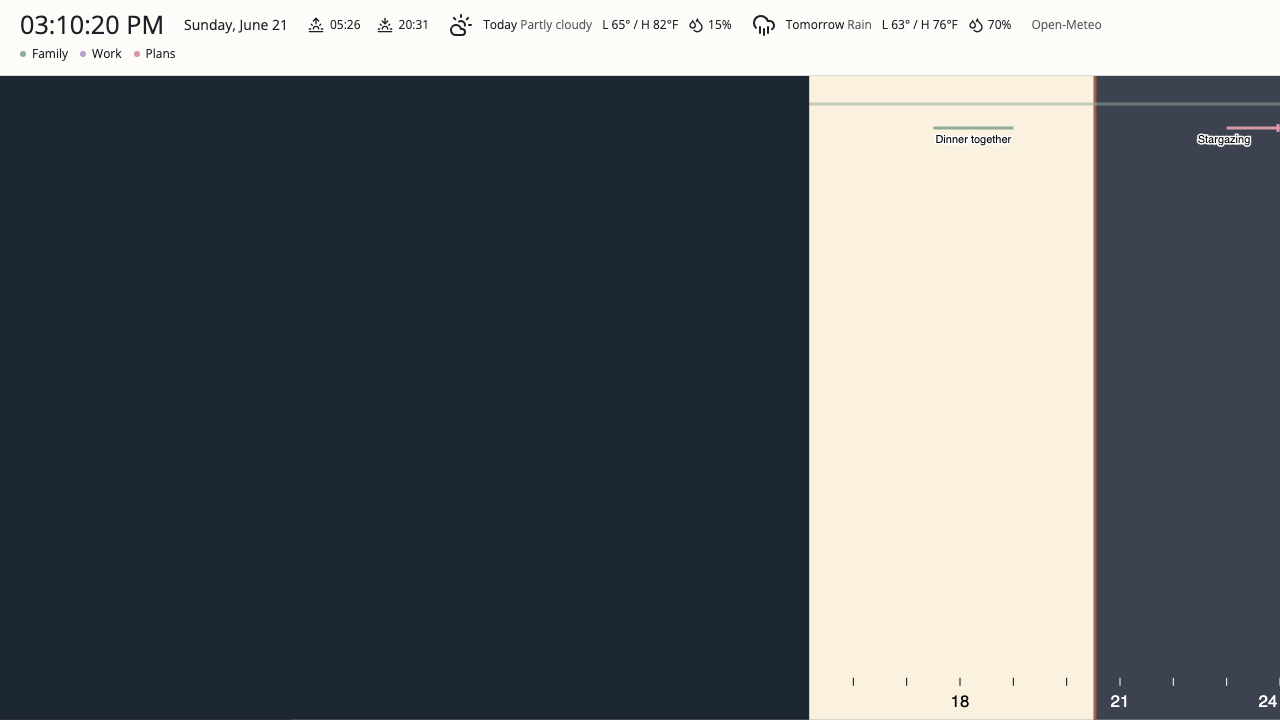
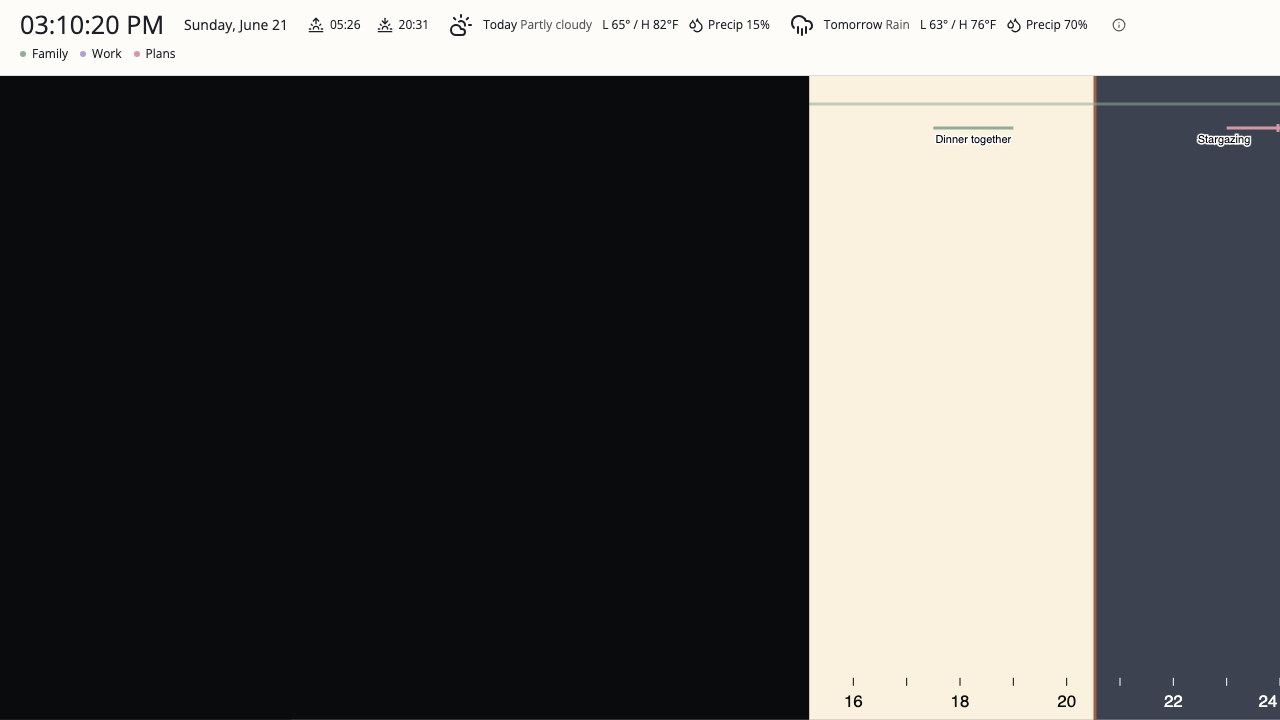
Clarify clock wipe defaults and precipitation indicators
Use the default near-black wipe for every starter palette without enabling wiping. Show rectangle hour labels every two hours on wide displays.

Label total precipitation chance explicitly, use snow/rain indicators and hide zero chances. Replace the weather source text with a compact adjacent info link and add full source/license attribution in settings.

Refresh all rectangle screenshots, add a snow/zero-precipitation example, and verify wipe contrast, opt-in behavior and weather attribution in browser checks.

diff --git a/clock/src/components/Settings.tsx b/clock/src/components/Settings.tsx
@@ -284,7 +284,8 @@ export default function Settings({
               </div>
               <p className="text-xs text-text-muted">
                 Pick a starting palette, then tweak any color. Calendar colors are restored; layout
-                and weather choices stay as-is.
+                and weather choices stay as-is. Uses the default near-black wipe color without
+                turning wiping on.
               </p>
               <Toggle checked={draftDark} onChange={setDraftDark} label="Dark display theme" />
               <p className="text-xs text-text-muted">
@@ -392,7 +393,32 @@ export default function Settings({
                 <p className="mt-2">
                   Open-Meteo receives your coordinates; no key or relay is needed. Refreshes every
                   30 minutes. Shows condition, low/high and chance of any precipitation—not separate
-                  rain/snow probabilities. Forecast dates follow this device's timezone.
+                  rain/snow probabilities. “Precip” is the total chance; the forecast condition
+                  shows Rain or Snow separately. A snowflake marks snowy forecasts, a droplet marks
+                  other precipitation; the chance is hidden at 0%. Forecast dates follow this
+                  device's timezone.
+                </p>
+                <p className="mt-2">
+                  Weather data by{' '}
+                  <a
+                    href="https://open-meteo.com/"
+                    target="_blank"
+                    rel="noreferrer"
+                    className="text-accent underline"
+                  >
+                    Open-Meteo
+                  </a>
+                  , under{' '}
+                  <a
+                    href="https://creativecommons.org/licenses/by/4.0/"
+                    target="_blank"
+                    rel="noreferrer"
+                    className="text-accent underline"
+                  >
+                    CC BY 4.0
+                  </a>
+                  . Temperatures are rounded and shown as a daily summary. The small info link
+                  beside the forecast provides the required source credit.
                 </p>
               </details>
             </fieldset>
@@ -434,8 +460,9 @@ export default function Settings({
                     Use theme wipe color
                   </Button>
                   <p className="text-sm text-text-muted">
-                    Covers midnight through now, including past event marks and hour labels. Use
-                    100% for a solid blackout.
+                    Covers midnight through now, including past event marks and hour labels. The
+                    default is near-black to stand out from night shading. Use 100% for a solid
+                    blackout.
                   </p>
                 </div>
               )}

diff --git a/clock/src/components/Weather.tsx b/clock/src/components/Weather.tsx
@@ -7,6 +7,7 @@ import {
   CloudSnow,
   CloudSun,
   Droplets,
+  Info,
   Snowflake,
   Sun,
 } from 'lucide-react';
@@ -115,10 +116,11 @@ export default function Weather({
         href="https://open-meteo.com/"
         target="_blank"
         rel="noreferrer"
-        className="text-text-muted text-xs"
+        className="text-text-muted inline-flex p-1 rounded focus-visible:outline focus-visible:outline-accent"
         aria-label="Weather data by Open-Meteo"
+        title="Weather data by Open-Meteo · CC BY 4.0 · Temperatures rounded"
       >
-        Open-Meteo
+        <Info className="w-3.5 h-3.5" aria-hidden="true" />
       </a>
     </div>
   );
@@ -151,13 +153,15 @@ function WeatherDay({
       <span className="tabular-nums whitespace-nowrap">
         L {Math.round(forecast.low)}° / H {Math.round(forecast.high)}°{unit}
       </span>
-      <span
-        className="inline-flex items-center gap-1 tabular-nums"
-        title="Chance of rain or snow (any precipitation)"
-      >
-        <PrecipitationIcon className="w-4 h-4" aria-hidden="true" />
-        {forecast.precipitation}%
-      </span>
+      {forecast.precipitation > 0 && (
+        <span
+          className="inline-flex items-center gap-1 tabular-nums"
+          title="Chance of rain or snow (any precipitation)"
+        >
+          <PrecipitationIcon className="w-4 h-4" aria-hidden="true" />
+          Precip {forecast.precipitation}%
+        </span>
+      )}
       {error && <span className="text-xs text-text-muted">Update unavailable</span>}
     </div>
   );

diff --git a/clock/src/lib/themes.test.ts b/clock/src/lib/themes.test.ts
@@ -12,7 +12,7 @@ test('all starter palettes materialize editable colors and survive kiosk URLs wi
       assert.ok(token.startsWith(`--color-clock-${theme.id}-`));
       return `#${(++index).toString(16).padStart(6, '0')}`;
     });
-    assert.equal(index, 7);
+    assert.equal(index, 6);
     const settings = {
       ...DEFAULT_SETTINGS,
       mode: 'linear' as const,
@@ -22,6 +22,15 @@ test('all starter palettes materialize editable colors and survive kiosk URLs wi
     const url = new URL(displayUrl('https://example.com/clock/', settings, theme.dark, true));
     assert.equal(url.searchParams.get('theme'), theme.dark ? 'dark' : 'light');
     assert.deepEqual(normalizeSettings(settingsFromParams(url.searchParams)), settings);
+    assert.equal(Object.hasOwn(palette, 'wipePast'), false);
+    assert.equal(Object.hasOwn(palette, 'wipeOpacity'), false);
+    for (const wipePast of [true, false]) {
+      const previous = { ...DEFAULT_SETTINGS, wipePast, wipeOpacity: 63, wipeColor: '#293544' };
+      const applied = { ...previous, ...palette };
+      assert.equal(applied.wipePast, wipePast);
+      assert.equal(applied.wipeOpacity, 63);
+      assert.equal(applied.wipeColor, null);
+    }
     assert.deepEqual(palette, {
       dayColor: '#000001',
       nightColor: '#000002',
@@ -29,7 +38,7 @@ test('all starter palettes materialize editable colors and survive kiosk URLs wi
       secondColor: '#000004',
       barColor: '#000005',
       barTextColor: '#000006',
-      wipeColor: '#000007',
+      wipeColor: null,
     });
   }
 });

diff --git a/packages/vite-shared-react/theme/theme.css b/packages/vite-shared-react/theme/theme.css
@@ -57,7 +57,6 @@
   --color-clock-midnight-second: oklch(70% 0.1 35);
   --color-clock-midnight-bar: oklch(15% 0.01 250);
   --color-clock-midnight-text: oklch(96% 0.02 85);
-  --color-clock-midnight-wipe: oklch(8% 0.005 250);
 
   --color-clock-paper-day: oklch(96% 0.025 85);
   --color-clock-paper-night: oklch(38% 0.025 265);
@@ -65,7 +64,6 @@
   --color-clock-paper-second: oklch(58% 0.075 340);
   --color-clock-paper-bar: oklch(99% 0.005 85);
   --color-clock-paper-text: oklch(24% 0.015 265);
-  --color-clock-paper-wipe: oklch(27% 0.025 250);
 
   --color-clock-sand-day: oklch(89% 0.07 80);
   --color-clock-sand-night: oklch(45% 0.035 55);
@@ -73,7 +71,6 @@
   --color-clock-sand-second: oklch(58% 0.075 155);
   --color-clock-sand-bar: oklch(93% 0.035 80);
   --color-clock-sand-text: oklch(30% 0.03 55);
-  --color-clock-sand-wipe: oklch(35% 0.03 55);
 
   --color-clock-dusk-day: oklch(80% 0.055 310);
   --color-clock-dusk-night: oklch(32% 0.045 280);
@@ -81,7 +78,6 @@
   --color-clock-dusk-second: oklch(74% 0.095 20);
   --color-clock-dusk-bar: oklch(25% 0.03 280);
   --color-clock-dusk-text: oklch(94% 0.02 310);
-  --color-clock-dusk-wipe: oklch(18% 0.025 280);
 
   /* Original Clock demo palette: blue-gray and tan. */
   --color-clock-slate-cream-day: #dcd4bd;
@@ -90,7 +86,6 @@
   --color-clock-slate-cream-second: #d88d77;
   --color-clock-slate-cream-bar: #293544;
   --color-clock-slate-cream-text: #f4efe4;
-  --color-clock-slate-cream-wipe: #293544;
 
   /* Gold (achievements, highlights) */
   --color-gold: oklch(75% 0.15 85);

diff --git a/clock/src/lib/themes.ts b/clock/src/lib/themes.ts
@@ -21,14 +21,13 @@ export const CLOCK_THEMES = [
   },
 ] as const;
 
-const fields: Record<PaletteKey, string> = {
+const fields: Record<Exclude<PaletteKey, 'wipeColor'>, string> = {
   dayColor: 'day',
   nightColor: 'night',
   handColor: 'hand',
   secondColor: 'second',
   barColor: 'bar',
   barTextColor: 'text',
-  wipeColor: 'wipe',
 };
 
 // Materialize theme tokens as editable hex values: URLs do not depend on preset IDs.
@@ -36,10 +35,15 @@ export function clockThemeColors(
   id: (typeof CLOCK_THEMES)[number]['id'],
   resolve: (token: string) => string,
 ): Pick<ClockSettings, PaletteKey> {
-  return Object.fromEntries(
-    Object.entries(fields).map(([field, token]) => [
-      field,
-      resolve(`--color-clock-${id}-${token}`),
-    ]),
-  ) as Pick<ClockSettings, PaletteKey>;
+  return {
+    ...Object.fromEntries(
+      Object.entries(fields).map(([field, token]) => [
+        field,
+        resolve(`--color-clock-${id}-${token}`),
+      ]),
+    ),
+    // Presets use the same near-black default as “Use theme wipe color”.
+    // Wiping remains opt-in: palette application never changes wipePast/opacity.
+    wipeColor: null,
+  } as Pick<ClockSettings, PaletteKey>;
 }

diff --git a/clock/src/components/ClockCanvas.tsx b/clock/src/components/ClockCanvas.tsx
@@ -135,7 +135,7 @@ function drawFace(
       ctx.strokeStyle = ink;
       ctx.lineWidth = 1;
       line(ctx, x, height - 42, x, height - 34);
-      if (hour % (width < 600 ? 6 : 3) === 0) {
+      if (hour % (width < 600 ? 6 : 2) === 0) {
         ctx.fillStyle = ink;
         ctx.fillText(
           hourLabel(hour, settings.hourLabels),

diff --git a/readmes/clock.md b/readmes/clock.md
@@ -5,7 +5,7 @@ A standalone canvas-based 24-hour clock at `/clock/`, designed to keep animation
 ## Display
 
 - **Circular:** fills the largest circle that fits the viewport, with hour labels and controls inside the rim. Midnight is at the top, noon at the bottom; the long hand rotates once per day and the shorter second hand once per minute. No header, footer, or legend. On square/circular displays the rim reaches the edges; rectangular screens have spare space on two sides.
-- **Linear / rectangle:** daylight/night shading fills the clock area edge-to-edge. Midnight is left, 24:00 right. A compact **top bar** (default) or **bottom bar** holds digital time, date, solar times, calendar legend/status, controls, and the optional agenda/weather. Choose **No bar — overlay** for the original layout. The current-time vertical marker and seconds sweep/track can be hidden independently without hiding digital seconds.
+- **Linear / rectangle:** daylight/night shading fills the clock area edge-to-edge. Midnight is left, 24:00 right. A compact **top bar** (default) or **bottom bar** holds digital time, date, solar times, calendar legend/status, controls, and the optional agenda/weather. Choose **No bar — overlay** for the original layout. The current-time vertical marker and seconds sweep/track can be hidden independently without hiding digital seconds. Bottom hour labels appear every two hours on displays at least 600px wide, every six hours on narrower displays.
 - **Rectangle elapsed-time wipe:** optionally cover midnight through now, including past labels and event marks. Choose a wipe color and opacity (0–100%); 100% gives a solid blackout. It never touches the info bar or circular clock.
 - Light sections show day, dark sections night. Boundaries mark sunrise/sunset; exact times are optional and hidden by default.
 - Optional digital time and date sit inside the clock. Small theme, fullscreen, and settings controls brighten on hover/focus; `f=1` removes them.
@@ -19,7 +19,7 @@ Hour labels can be 24-hour (`00–23`) or repeated 12-hour (`12, 1…11`, twice)
 
 Date formats: hidden (default), weekday only, month/day, weekday/date, full date with year, locale-specific numeric date, or ISO YYYY-MM-DD.
 
-Rectangle **starter themes**: **Midnight** (dark charcoal/cream), **Paper** (bright ivory/slate), **Sand** (warm in-between neutrals), **Dusk** (muted plum/lavender), and **Slate & Cream** (the original demo's exact blue-gray/tan colors). Buttons preview each palette with its background/text colors and clock-color swatches, with consistently left-aligned names/descriptions. Each fills in editable clock/bar/wipe colors and its light/dark mode; layout, weather toggles and wipe opacity stay as-is. It restores individual calendar colors. Apply a preset, then tweak any picker. Save applies its display mode; Copy URL includes the draft mode/colors even without saving. Presets are materialized colors, not a new theme-name dependency in kiosk URLs.
+Rectangle **starter themes**: **Midnight** (dark charcoal/cream), **Paper** (bright ivory/slate), **Sand** (warm in-between neutrals), **Dusk** (muted plum/lavender), and **Slate & Cream** (the original demo's exact blue-gray/tan colors). Buttons preview each palette with its background/text colors and clock-color swatches, with consistently left-aligned names/descriptions. Each fills in editable clock/bar colors and its light/dark mode, and resets the wipe color to the same near-black default as **Use theme wipe color** so it stands out from night shading. Selecting a preset never enables wiping; the **Wipe elapsed time** toggle, weather choices and wipe opacity stay as-is. It restores individual calendar colors. Apply a preset, then tweak any picker. Save applies its display mode; Copy URL includes the draft mode/colors even without saving. Presets are materialized colors, not a new theme-name dependency in kiosk URLs.
 
 Color pickers control day, night, the 24-hour hand/marker, second hand/marker, and optionally all event marks. Rectangle bar background and text have independent color pickers and a reset-to-theme button; weather text also follows the bar text color. Without an event-color override, events use each Google calendar’s color. Custom colors persist across themes; Reset to theme colors restores defaults. Hour labels automatically contrast with custom day/night colors. Semantic default aliases are in `clock/src/index.css`.
 
@@ -31,9 +31,9 @@ SunCalc computes approximate sunrise/sunset locally, with no permission prompt o
 
 ## Optional rectangle weather
 
-Enable **Today's weather** and/or **Tomorrow's weather** independently in rectangle settings, with Fahrenheit (default) or Celsius. The top/bottom bar shows each day's condition icon, low/high and maximum probability of any precipitation; a snow icon appears for snowy forecasts. The percentage is **not separate rain and snow probabilities**. Weather is off by default and is not shown in circular/overlay mode.
+Enable **Today's weather** and/or **Tomorrow's weather** independently in rectangle settings, with Fahrenheit (default) or Celsius. The top/bottom bar shows each day's condition icon/name, low/high and maximum probability of any precipitation, explicitly labeled **Precip**. A snowflake appears with snowy forecasts, a droplet otherwise; the chance/icon are hidden at 0%. Open-Meteo does **not** provide separate daily rain and snow probabilities here, so the percentage is the total precipitation chance, not an invented type-specific chance. Weather is off by default and is not shown in circular/overlay mode.
 
-Uses Open-Meteo directly (no home-relay weather endpoint, account or key needed). Enabling it sends the configured coordinates to Open-Meteo. Forecast dates follow the **device timezone**, just like the clock. Data refreshes every 30 minutes, at midnight, after coordinate/unit changes, and on tab return; requests stop while hidden and time out after 10 seconds. Failed refreshes retain the current day's last forecast with an update warning; location/date changes clear old data. Missing coordinates and network failures display a compact status. The weather attribution links to Open-Meteo.
+Uses Open-Meteo directly (no home-relay weather endpoint, account or key needed). Enabling it sends the configured coordinates to Open-Meteo. Forecast dates follow the **device timezone**, just like the clock. Data refreshes every 30 minutes, at midnight, after coordinate/unit changes, and on tab return; requests stop while hidden and time out after 10 seconds. Failed refreshes retain the current day's last forecast with an update warning; location/date changes clear old data. Missing coordinates and network failures display a compact status. A small info-icon link beside the weather provides Open-Meteo source attribution (their licence requires an adjacent link). Weather settings contain full source and CC BY 4.0 licence links, plus a note that temperatures are rounded. The bar does not display a full-width Open-Meteo text label.
 
 ## No-input kiosk and URL options
 

diff --git a/clock/screenshots/README.md b/clock/screenshots/README.md
@@ -1,6 +1,6 @@
 # Clock demo gallery
 
-**20 full-resolution display demos**, four settings screenshots, plus two overview sheets. Real screenshots of the built app in Chromium, using fictional calendars/events and a fixed demo date: **Sunday, June 21, 2026 at 15:10:20, America/New_York**. Coordinates are New York; weather and calendar data are fictional. No private Google events, production relay, or live weather API were accessed.
+**21 full-resolution display demos**, four settings screenshots, plus two overview sheets. Real screenshots of the built app in Chromium, using fictional calendars/events and a fixed demo date: **Sunday, June 21, 2026 at 15:10:20, America/New_York**. Coordinates are New York; weather and calendar data are fictional. No private Google events, production relay, or live weather API were accessed.
 
 The warm cream/charcoal palettes below are examples made with the app’s color settings—not fixed product colors. Optional names use separate clearance from the marks; crowded labels are omitted instead of overlapping, while the dot/band remains. The optional agenda supplies names for dense schedules. Every displayed option can be configured in the URL. `f=1` hides controls in all examples.
 
@@ -36,7 +36,7 @@ The warm cream/charcoal palettes below are examples made with the app’s color 
 
 ## Rectangle starter themes
 
-Each preset below was applied with the actual settings button, copied to a kiosk URL, and loaded before capture. The top bar uses the preset's background/text colors. All examples show both weather days, 12-hour digital time, and elapsed-time wiping without markers; wipe opacity stays at 100% when applying presets.
+Each preset below was applied with the actual settings button, copied to a kiosk URL, and loaded before capture. The top bar uses the preset's background/text colors. All examples show both weather days, 12-hour digital time, and elapsed-time wiping without markers; wipe opacity stays at 100% when applying presets. All presets now use the default near-black wipe, contrasting with their night shading; picking a preset does not enable wiping.
 
 ### Midnight — dark charcoal & warm cream
 
@@ -71,6 +71,12 @@ Each preset below was applied with the actual settings button, copied to a kiosk
 ### Tomorrow-only forecast
 
 ![Top bar with only tomorrow's weather](rectangle-tomorrow-weather.png)
+
+### Snow forecast and zero precipitation
+
+![Clear today with no precipitation percentage, snow forecast tomorrow with total precipitation chance](rectangle-weather-snow.png)
+
+The winter weather is fictional demo data. Today has 0% precipitation, so its chance/icon are hidden. Tomorrow shows a snowflake and **Precip 80%**—the chance of any precipitation, not a separately supplied snow probability. Open-Meteo does not provide separate daily rain/snow probabilities in this feed. The small info link provides adjacent source credit; full credit and licence links are in weather settings.
 
 ### Settings
 
@@ -119,4 +125,4 @@ pnpm --filter clock screenshots
 
 On macOS the browser binary may be `/Applications/Google Chrome.app/Contents/MacOS/Google Chrome`. Optional environment variables `CLOCK_CDP_URL` and `CLOCK_PREVIEW_URL` select alternate debug/preview endpoints. Use a throwaway browser profile and keep remote debugging bound to localhost.
 
-The capture checks calendar retrieval/legend, URL-driven theme, hidden controls, optional agenda, today/tomorrow weather, wipe pixel alpha/bounds, all-calendars-off behavior, and uncaught browser exceptions. It also opens the actual settings form, changes the bar/unit/opacity without saving, clicks **Copy display URL**, and verifies every setting in the generated link. Every preset is also clicked, copied, checked for seven explicit color values and its light/dark mode, and loaded for a dedicated screenshot. Weather toggle regression checks also verify stable dialog position/size and no horizontal overflow at desktop (960px) and phone (390px) widths. Geolocation checks grant browser permission with mocked coordinates, verify draft fields and copied URLs, and exercise permission denial without losing existing coordinates. Calendar requests are checked to ensure no Authorization header is sent; obsolete read keys must be stripped from copied links. It does not test the Orange Pi's hardware renderer or a real Google account.
+The capture checks calendar retrieval/legend, URL-driven theme, hidden controls, optional agenda, today/tomorrow weather, wipe pixel alpha/bounds, all-calendars-off behavior, and uncaught browser exceptions. It also opens the actual settings form, changes the bar/unit/opacity without saving, clicks **Copy display URL**, and verifies every setting in the generated link. Every preset is also clicked, copied, checked for six explicit clock/bar color values, the default wipe color and its light/dark mode, and loaded for a dedicated screenshot. Weather toggle regression checks also verify stable dialog position/size and no horizontal overflow at desktop (960px) and phone (390px) widths. Geolocation checks grant browser permission with mocked coordinates, verify draft fields and copied URLs, and exercise permission denial without losing existing coordinates. Preset wipe pixels are checked to contrast with unmasked night shading, and preset selection must not enable wiping. Weather checks cover 0% hiding, snow icons and adjacent attribution. Calendar requests are checked to ensure no Authorization header is sent; obsolete read keys must be stripped from copied links. It does not test the Orange Pi's hardware renderer or a real Google account.
